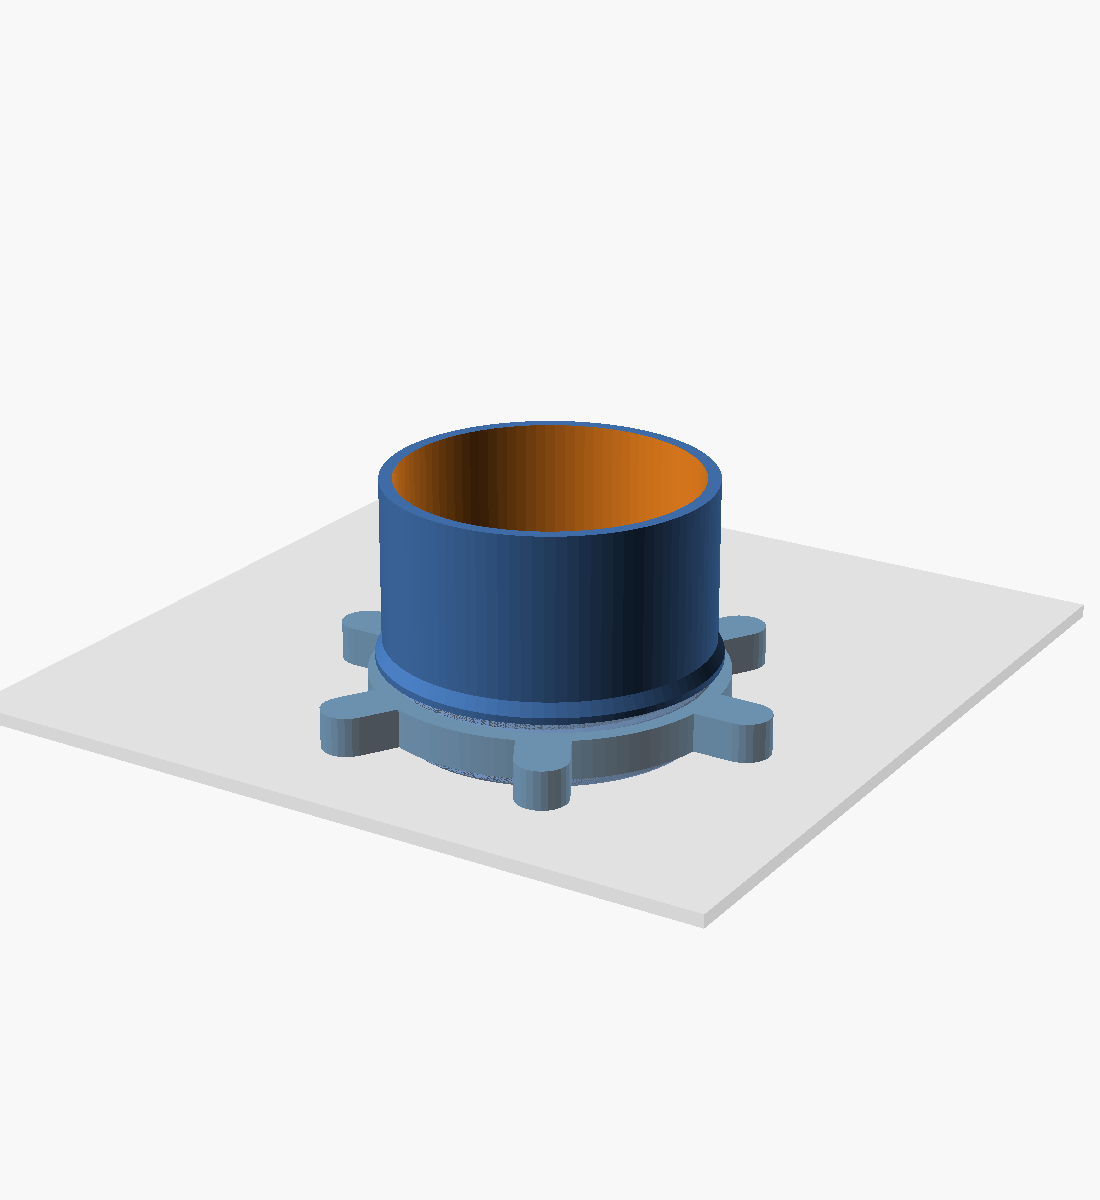
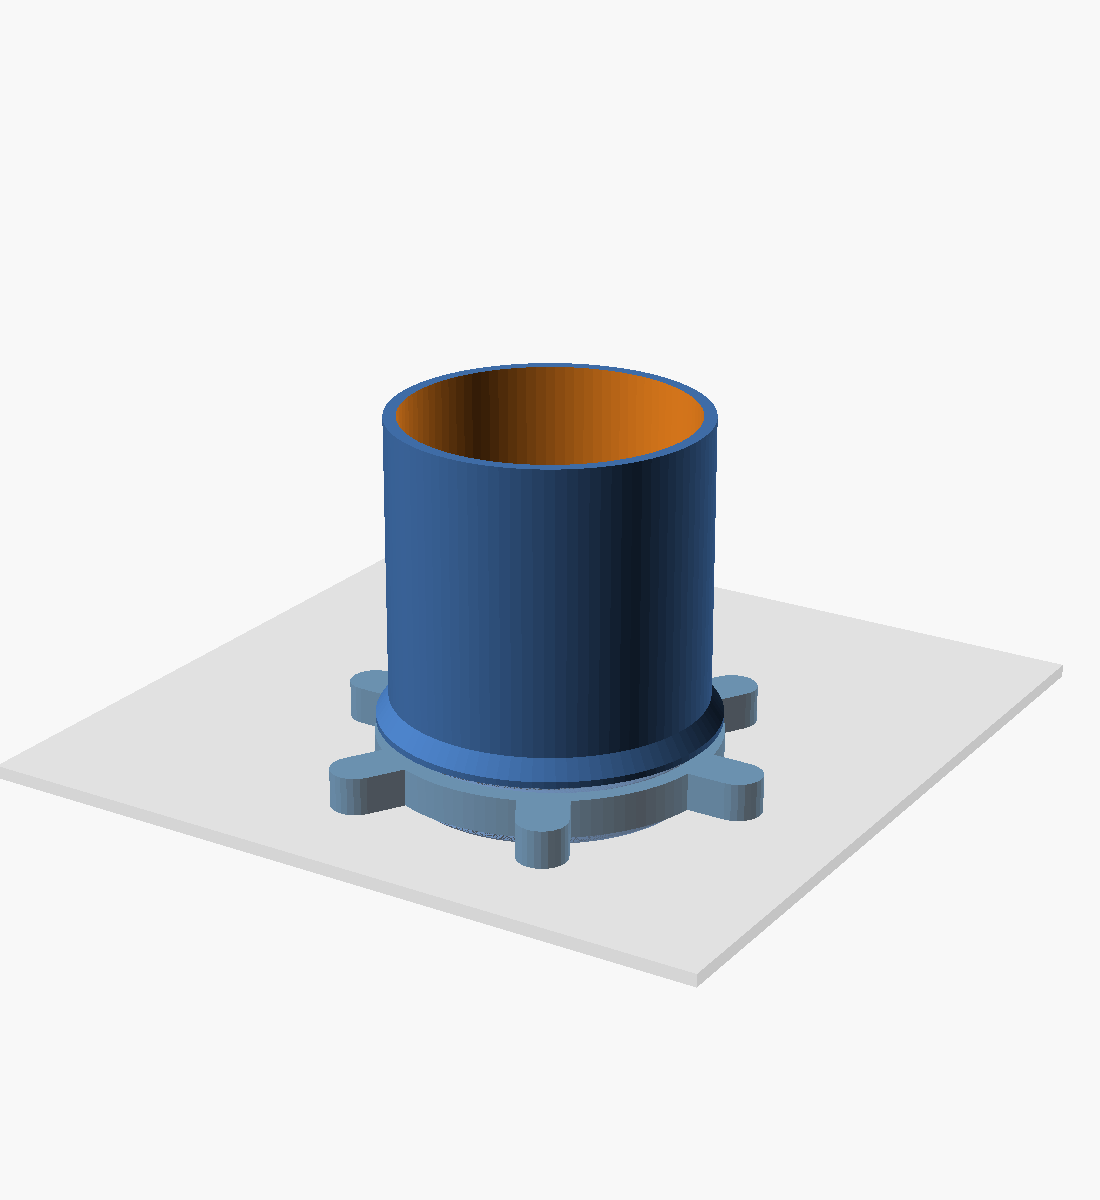
panel_spigot: 20 mm more tube, a 2 mm ring to push on, and names that say so
The second print worked, and then it was used: 25 mm of tube was too short,
and a 1 mm ring under a Ø52 collar was too little to pull the panel against.

  tube_len      25 -> 45   the plain tube, 2 cm longer
  collar_over    2 -> 4    Ø54 collar, a 2 mm ring all round on the Ø50 hole
  collar_t       3 -> 4    see below
  collar_blend   1 -> 2    reaches the tube: no flat ledge
  root_cone      6 -> 7    still climbs 3 mm into the tube past the collar

The collar is thicker because of the ring, not for its own sake. The chamfer has
to reach from the rim all the way to the tube or it leaves a flat ledge, and
doubling the ring doubles that distance. Over the 2 mm of height a 3 mm collar
can give it, that is 45 degrees again -- the angle the first print failed at.
At 4 mm it gets 3 mm of height: 33.7 degrees, under the 40 the model asserts,
and a stiffer collar to pull against. root_cone follows by the same millimetre so
the fillet at the root of what is now a 45 mm lever does not shrink.

The spigot presets now carry their dimensions in the name -- od (tube Ø),
l (tube length), c (collar Ø) -- so the STLs can be told apart in a file
dialog, and each sets those three values itself rather than leaning on the
defaults, so the name stays true if they move again:

  panel_spigot_od50_l45_c54[_print]     the default
  panel_spigot_od50_l50_c54[_print]     was panel_spigot_50
  panel_spigot_od495_l45_c54[_print]    collar_over 4.5, blend 2.25: Ø54, 36.9 deg
[…]

diff --git a/README.md b/README.md
@@ -488,11 +488,11 @@ Three things are worth knowing before you print one:
 - **The collar is flat underneath, always.** Whatever is done for strength happens on the
   tube side or inside the bore. Chamfer the face that meets the panel and the part rocks on
   the chamfer instead of bedding on the panel.
-- **That ring is 1 mm wide.** `collar_over` is the collar's Ø *over the tube's*, so half of
-  it, all round, is what bears on the panel — 1 mm at the Ø52 default, and that assumes the
-  hole is drilled at size. Drill it Ø51 and half the ring is gone. `panel_spigot_wide` gives
-  it 2 mm. The figure is echoed on every render.
-- **The root of the tube is thickened from the inside.** A Ø50 tube standing 25 mm proud is
+- **That ring is 2 mm wide.** `collar_over` is the collar's Ø *over the tube's*, so half of
+  it, all round, is what bears on the panel — 2 mm at the Ø54 default. It used to be 1 mm at
+  Ø52, which assumed the hole was drilled at size (drill it Ø51 and half the ring was gone),
+  and the printed part asked for more to push against. The figure is echoed on every render.
+- **The root of the tube is thickened from the inside.** A Ø50 tube standing 45 mm proud is
   a cantilever and it breaks where it meets the collar. The bore has to step from the tube's
   Ø46 down to the thread's Ø41 there anyway, so the step is a cone rather than a shoulder:
   the fillet at the root and the funnel that keeps a cable off the edge, for free. How *long*
@@ -511,7 +511,7 @@ The first print of this part failed in the transition from the tube to the threa
 kept failing with supports switched on. It was not a support problem — it was an angle
 problem, and measuring the exported mesh said so plainly:
 
-| | Then | Now |
+| | First print | Second print |
 |---|---:|---:|
 | Root cone, inside (Ø46 → Ø41) | **45.0°** from vertical | **22.6°** |
 | Collar shoulder, outside (Ø50 → Ø52) | **45.0°** | **26.6°** |
@@ -529,13 +529,13 @@ generates nothing, and what it would generate has to grow 25 mm up the inside of
 
 Three things fix it, and none of them is a support setting:
 
-- **`root_cone`** is the cone's own length, no longer tied to `collar_t`. At the default 6 mm
+- **`root_cone`** is the cone's own length, no longer tied to `collar_t`. At 6 mm
   it crosses the 3 mm collar and climbs 3 mm on into the tube, which is both a gentler angle
   and a longer fillet at the root of the cantilever.
 - **`wall` is 2 mm**, not 1.5. It helps twice: a thicker tube has a smaller bore, so the cone
   has less radius to fall — and 2 mm is five lines of a 0.4 nozzle, where 1.5 mm was three
   and a half, i.e. two perimeters and a ribbon of gap fill up the whole 25 mm shell.
-  `panel_spigot_stout` gives it 2.5 mm.
+  `panel_spigot_od50_l45_c54_stout` gives it 2.5 mm.
 - **`collar_blend` is taller than it is deep.** It gets all of `collar_t` bar the millimetre
   of straight wall that keeps the bearing face flat, so the shoulder is 27° and not 45°.
 
@@ -544,23 +544,49 @@ export a spigot whose transition overhangs more than 40° from vertical.
 
 ### A Ø49.5 tube, on the same screw
 
-`panel_spigot_od495` is the same part with the tube turned down half a millimetre, for when
-something has to slide over it or into it and Ø50 on Ø50 is no fit at all. **The screw is
-untouched** — same Ø49.2 crest, same 3 mm pitch, same 11 mm of neck, same nut. So is the
-collar: `collar_over` goes up by the same 0.5 mm, which keeps the collar at Ø52 and the ring
-it hangs on at 1 mm, exactly as on the Ø50.
+`panel_spigot_od495_l45_c54` is the same part with the tube turned down half a millimetre,
+for when something has to slide over it or into it and Ø50 on Ø50 is no fit at all. **The
+screw is untouched** — same Ø49.2 crest, same 3 mm pitch, same 11 mm of neck, same nut. So is
+the collar: `collar_over` goes up by the same 0.5 mm, which keeps the collar at Ø54 and the
+ring it hangs on at 2 mm, exactly as on the Ø50.
 
 One thing does change in kind. At Ø50 the tube *cannot* pass the Ø50 hole and that was half
 the mechanism; at Ø49.5 it can, and only the collar stops it. Nothing hangs differently —
 the collar was always what the part bears on — but it is no longer impossible to push the
 part through a panel with no nut on it.
 
-`collar_blend` goes up to 1.25 with `collar_over`, and that matters: the chamfer is what
-reaches down to the tube, so leaving it at 1 would leave a 0.25 mm **flat** ring under the
+`collar_blend` goes up to 2.25 with `collar_over`, and that matters: the chamfer is what
+reaches down to the tube, so leaving it at 2 would leave a 0.25 mm **flat** ring under the
 collar, which is a 0° overhang once the part is turned over. The ledge is echoed on every
-render now, because raising `collar_over` widens it without widening the chamfer.
-`panel_spigot_wide` leaves 1 mm of it on purpose — a short flat ring bridges off the tube's
-wall and carries itself, which is the documented `collar_blend = 0` case.
+render, because raising `collar_over` widens it without widening the chamfer. The extra
+quarter millimetre over the same 3 mm of height makes the shoulder 36.9° rather than 33.7° —
+the steepest of the presets, and still under the 40° the model asserts.
+
+### Longer tube, wider collar
+
+The second print worked, and then it was used: the tube was too short, and a 1 mm ring was
+too little to push against. So the defaults moved:
+
+| | Second print | Now |
+|---|---:|---:|
+| Tube (`tube_len`) | 25 mm | **45 mm** |
+| Collar Ø / ring on the panel (`collar_over`) | Ø52 / 1 mm | **Ø54 / 2 mm** |
+| Collar thickness (`collar_t`) | 3 mm | **4 mm** |
+| Collar shoulder, outside (`collar_blend`) | 1 mm over 2 mm, 26.6° | **2 mm over 3 mm, 33.7°** |
+| Root cone, inside (`root_cone`) | 6 mm, 22.6° | **7 mm, 19.7°** |
+| Overall, thread tip to tube mouth | 39 mm | **60 mm** |
+
+The collar is thicker because of the wider ring, not for its own sake. The chamfer has to
+reach all the way from the collar's rim to the tube or it leaves a flat ledge (see above), and
+doubling the ring doubles the distance it has to cover. Over the 2 mm of height a 3 mm collar
+can give it, that is 45° again — the angle the first print failed at. One more millimetre of
+collar gives it 3 mm, which is 33.7°: steeper than before, well under the 40° the model
+asserts, and a stiffer collar to pull the panel against. `root_cone` grows by the same
+millimetre, so the cone still climbs 3 mm into the tube past the collar; a 45 mm tube is a
+longer lever on its root, and that fillet is what takes it.
+
+The price of 45 mm is paid at the printer: the free-standing shell is that much taller before
+it reaches the collar. Brim it, and slow down for the last few millimetres before the collar.
 
 ### Two nuts, and why you might want the narrow one
 
@@ -594,22 +620,31 @@ one print serves them all, whichever grip you choose.
 
 ### Presets
 
-Named parameter sets live in [`panel_spigot.json`](panel_spigot.json):
+Named parameter sets live in [`panel_spigot.json`](panel_spigot.json). The spigots carry
+their dimensions in the name, so the STLs can be told apart in a slicer's file dialog: **`od`**
+is the tube's outside Ø, **`l`** the tube's length and **`c`** the collar's Ø, all in mm
+(`od495` is Ø49.5). Each of those presets sets the three values itself rather than leaning on
+the defaults, so the name stays true if the defaults move again.
 
 | Preset | What it builds |
 |---|---|
-| `panel_spigot` | **the default: Ø50 × 1.5 mm wall, 25 mm of tube** |
-| `panel_spigot_print` | the same, laid out for the bed |
-| `panel_spigot_50`, `panel_spigot_50_print` | 50 mm of tube instead of 25 |
-| `panel_spigot_thin` | a 1 mm wall — a duct, not something to lean on |
-| `panel_spigot_wide` | `collar_over` 4, so the ring it hangs on is 2 mm |
+| `panel_spigot_od50_l45_c54` | **the default: Ø50 × 2 mm wall, 45 mm of tube, Ø54 collar** |
+| `panel_spigot_od50_l45_c54_print` | the same, laid out for the bed |
+| `panel_spigot_od50_l50_c54`, `…_print` | 50 mm of tube |
+| `panel_spigot_od495_l45_c54`, `…_print` | the tube turned down to Ø49.5, on the same screw and collar |
+| `panel_spigot_od50_l45_c54_thin` | a 1 mm wall — a duct, not something to lean on |
+| `panel_spigot_od50_l45_c54_stout`, `…_print` | a 2.5 mm wall |
 | `panel_spigot_nut`, `panel_spigot_nut_wide` | the fin-grip nut, and the flanged one |
 | `panel_spigot_nut_slim` | the scalloped grip — Ø57.2 instead of Ø74.4 across |
 | `panel_spigot_nut_slim_tight` | the same, narrower still at Ø54.4, on a thinner wall |
-| `panel_spigot_hole60`, `panel_spigot_nut_hole60` | a Ø60 hole, with the tube grown to match |
+| `panel_spigot_od60_l45_c64_hole60`, `panel_spigot_nut_hole60` | a Ø60 hole, with the tube grown to match |
+
+The old names — `panel_spigot`, `panel_spigot_print`, `panel_spigot_50`, `panel_spigot_wide`
+and friends — are gone; `_wide`'s 2 mm ring is now the default.
 
 ```sh
-openscad -o panel_spigot.stl -p panel_spigot.json -P panel_spigot panel_spigot.scad
+openscad -o panel_spigot_od50_l45_c54_print.stl -p panel_spigot.json \
+    -P panel_spigot_od50_l45_c54_print panel_spigot.scad
 ```
 
 ## Requirements
